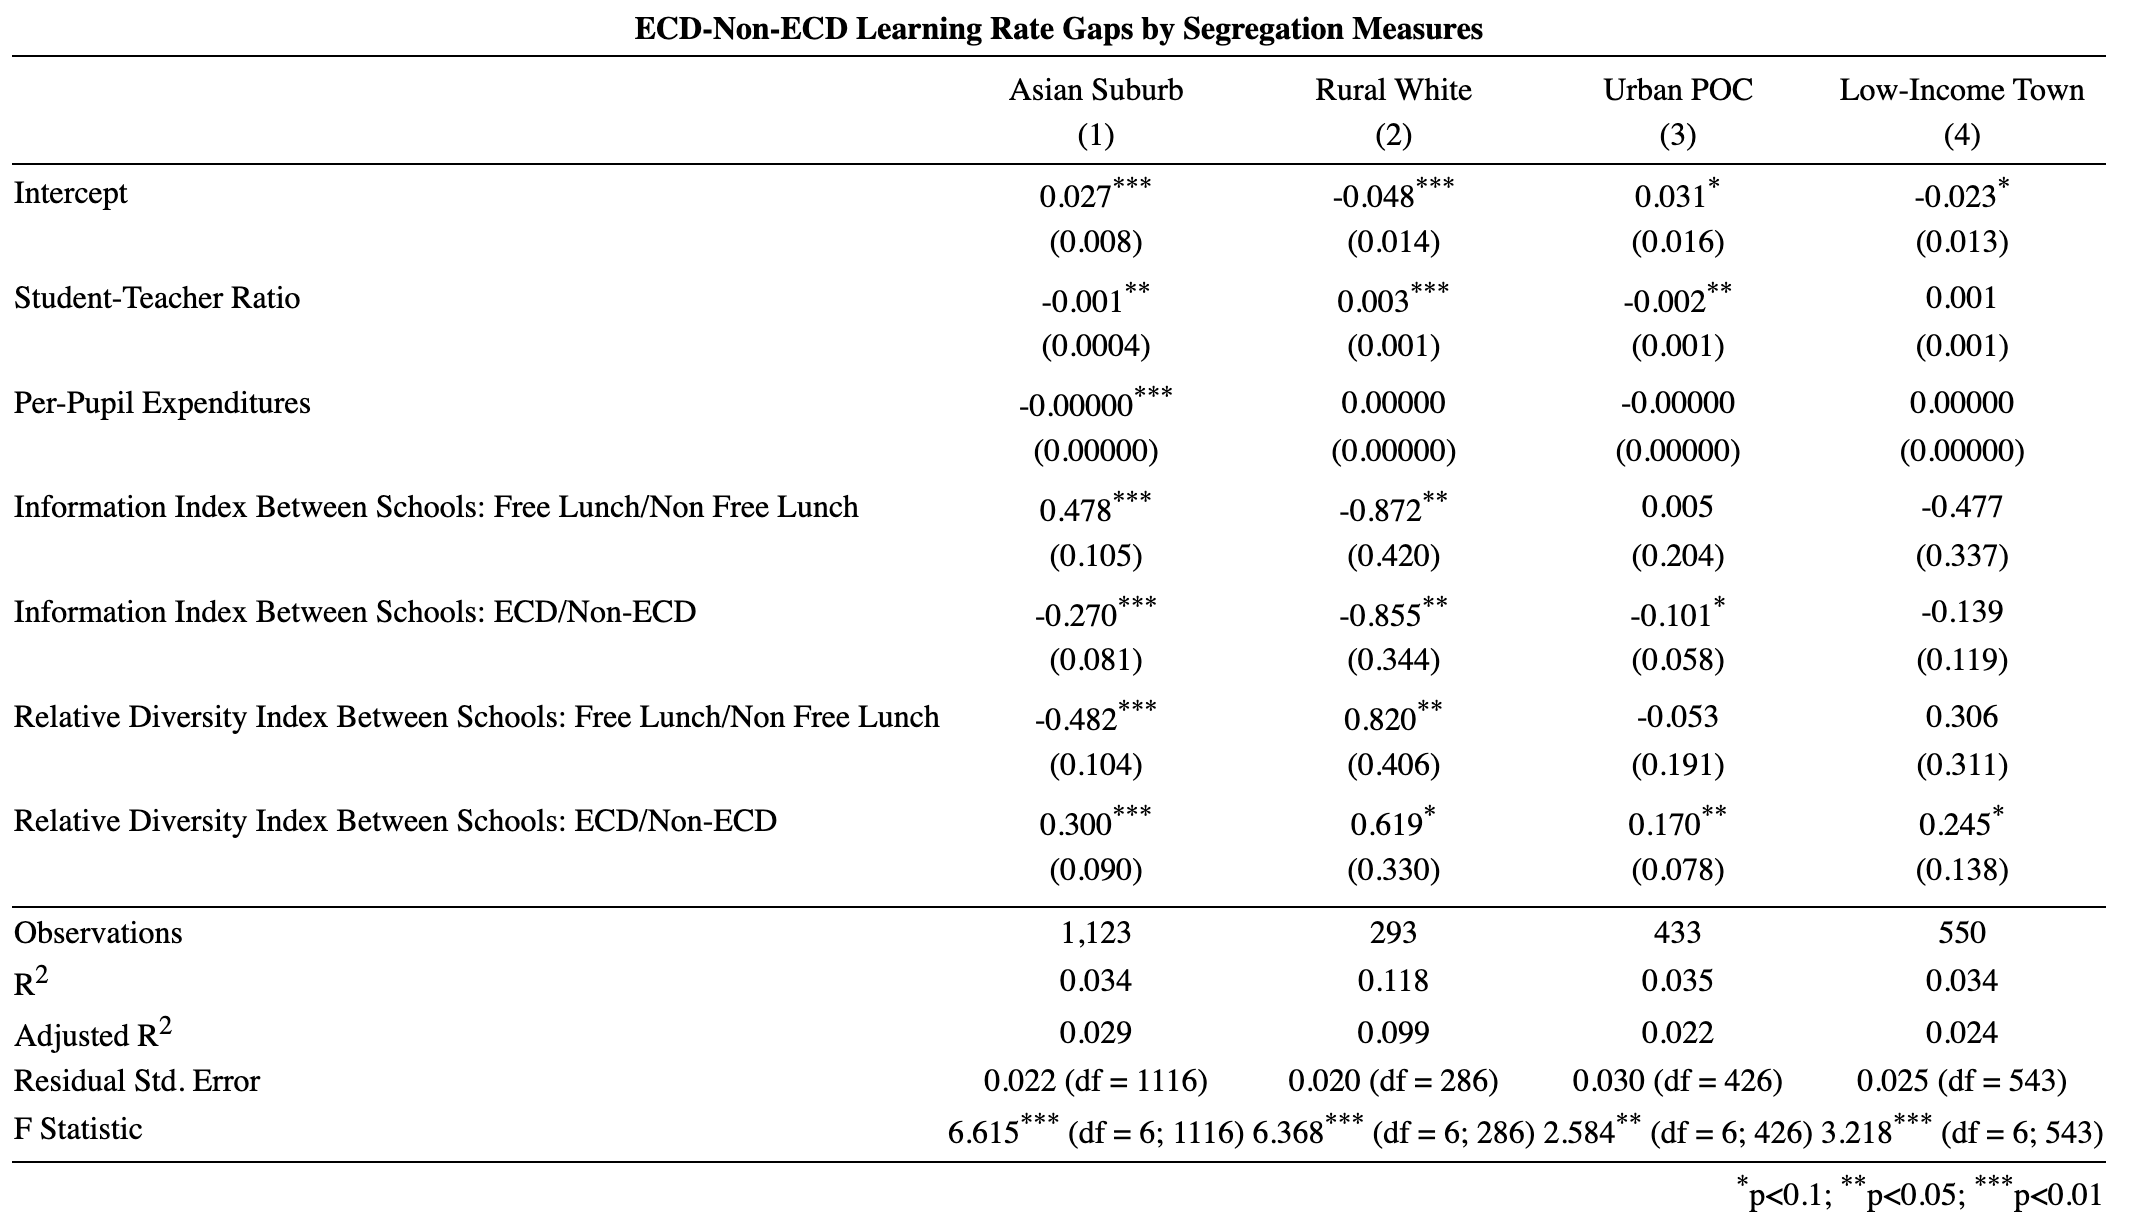
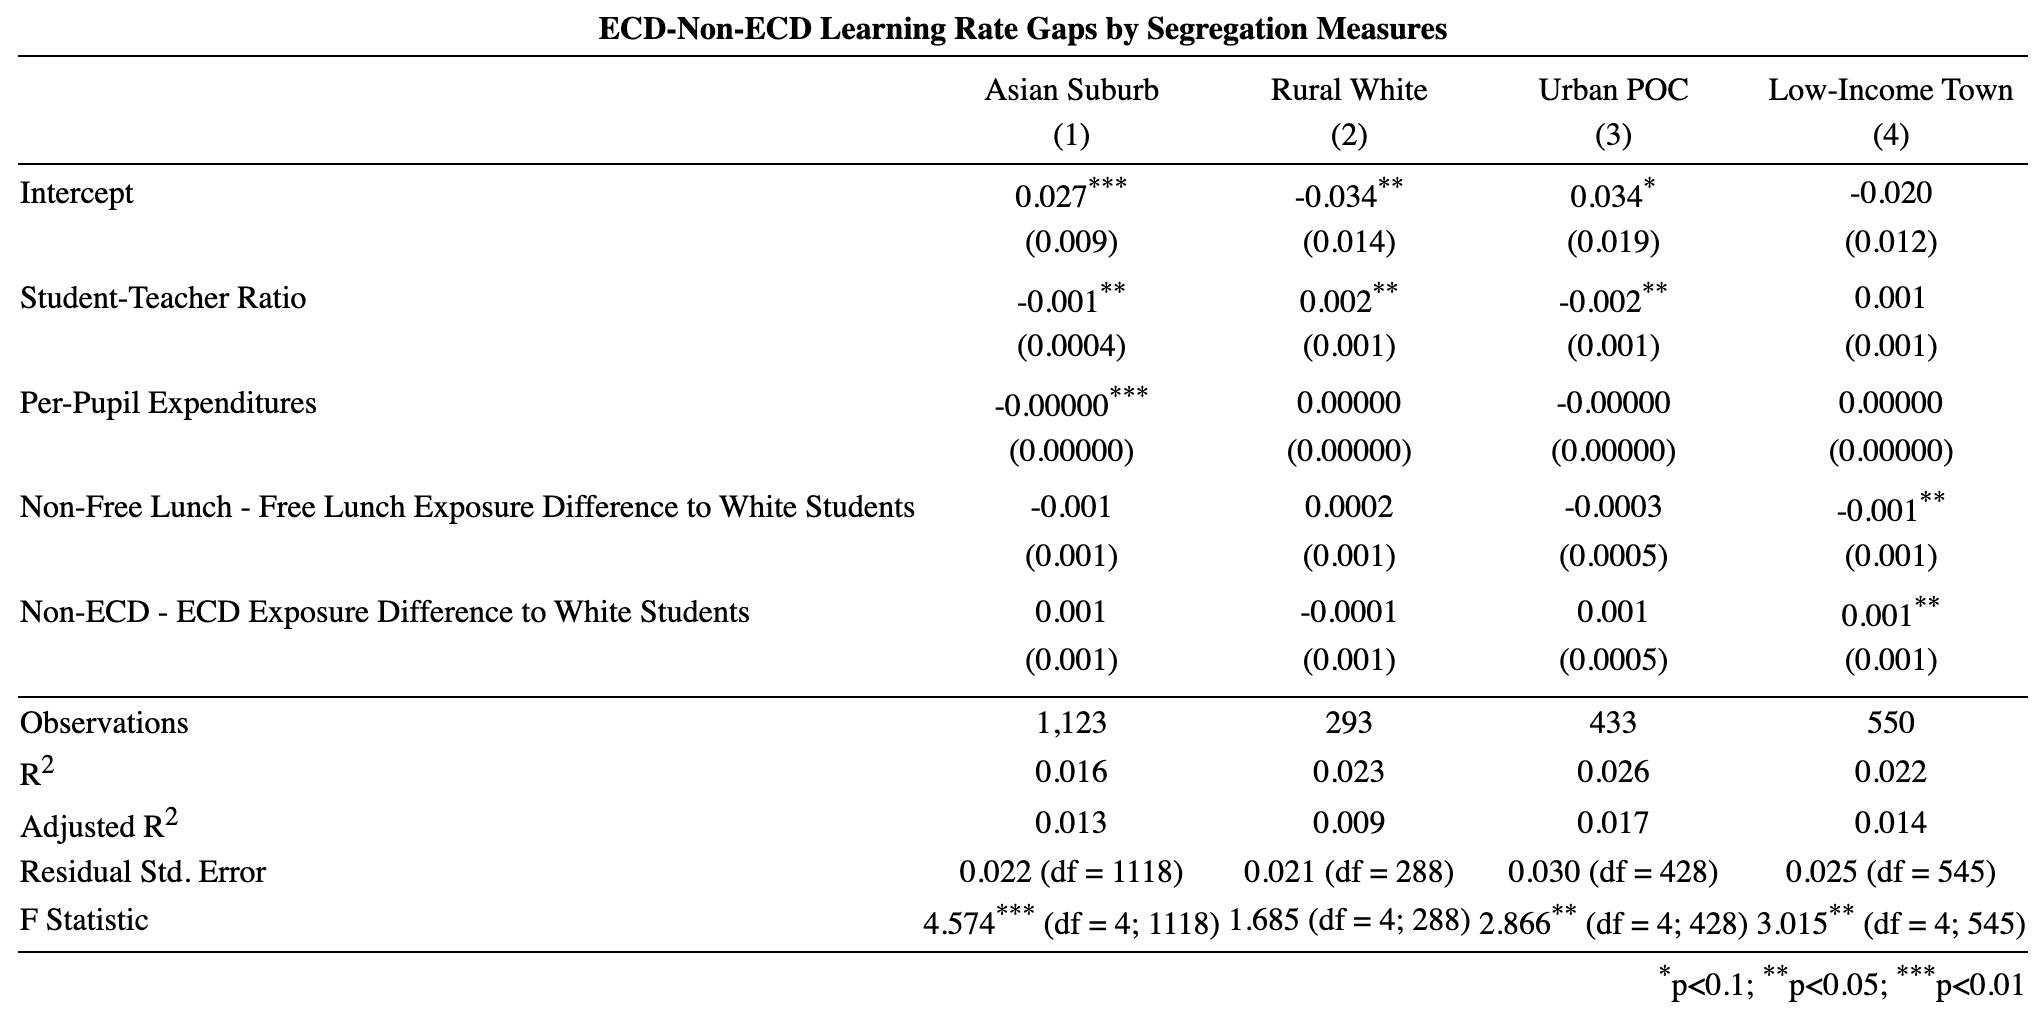
updated regression tables
Updated tables with updated segregation coefficients

diff --git a/data/whg_regressiontable.html b/data/whg_regressiontable.html
@@ -3,31 +3,28 @@
 <tr><td colspan="5" style="border-bottom: 1px solid black"></td></tr><tr><td style="text-align:left"></td><td colspan="4"></td></tr>
 <tr><td style="text-align:left"></td><td>Asian Suburb</td><td>Rural White</td><td>Urban POC</td><td>Low-Income Town</td></tr>
 <tr><td style="text-align:left"></td><td>(1)</td><td>(2)</td><td>(3)</td><td>(4)</td></tr>
-<tr><td colspan="5" style="border-bottom: 1px solid black"></td></tr><tr><td style="text-align:left">Intercept</td><td>0.028<sup>***</sup></td><td>-0.072<sup>***</sup></td><td>0.027<sup>*</sup></td><td>-0.019</td></tr>
-<tr><td style="text-align:left"></td><td>(0.010)</td><td>(0.019)</td><td>(0.015)</td><td>(0.014)</td></tr>
+<tr><td colspan="5" style="border-bottom: 1px solid black"></td></tr><tr><td style="text-align:left">Intercept</td><td>0.028<sup>***</sup></td><td>-0.070<sup>***</sup></td><td>0.027</td><td>-0.019</td></tr>
+<tr><td style="text-align:left"></td><td>(0.010)</td><td>(0.019)</td><td>(0.018)</td><td>(0.015)</td></tr>
 <tr><td style="text-align:left"></td><td></td><td></td><td></td><td></td></tr>
-<tr><td style="text-align:left">Student-Teacher Ratio</td><td>-0.002<sup>***</sup></td><td>0.003<sup>**</sup></td><td>-0.002<sup>***</sup></td><td>0.0004</td></tr>
+<tr><td style="text-align:left">Student-Teacher Ratio</td><td>-0.002<sup>***</sup></td><td>0.003<sup>***</sup></td><td>-0.002<sup>***</sup></td><td>0.0003</td></tr>
 <tr><td style="text-align:left"></td><td>(0.0004)</td><td>(0.001)</td><td>(0.001)</td><td>(0.001)</td></tr>
 <tr><td style="text-align:left"></td><td></td><td></td><td></td><td></td></tr>
-<tr><td style="text-align:left">Per-Pupil Expenditures</td><td>-0.00000<sup>*</sup></td><td>0.00000<sup>*</sup></td><td>-0.00000</td><td>0.00000</td></tr>
+<tr><td style="text-align:left">Per-Pupil Expenditures</td><td>-0.00000<sup>*</sup></td><td>0.00000</td><td>-0.00000</td><td>0.00000</td></tr>
 <tr><td style="text-align:left"></td><td>(0.00000)</td><td>(0.00000)</td><td>(0.00000)</td><td>(0.00000)</td></tr>
 <tr><td style="text-align:left"></td><td></td><td></td><td></td><td></td></tr>
-<tr><td style="text-align:left">Hispanic-White Difference in Exposure to ECD Students</td><td>0.067</td><td>0.082</td><td>0.023</td><td>0.091</td></tr>
-<tr><td style="text-align:left"></td><td>(0.043)</td><td>(0.082)</td><td>(0.033)</td><td>(0.063)</td></tr>
+<tr><td style="text-align:left">Hispanic-White Difference in Exposure to ECD Students</td><td>0.001</td><td>0.001</td><td>0.0002</td><td>0.001</td></tr>
+<tr><td style="text-align:left"></td><td>(0.0005)</td><td>(0.001)</td><td>(0.0003)</td><td>(0.001)</td></tr>
 <tr><td style="text-align:left"></td><td></td><td></td><td></td><td></td></tr>
-<tr><td style="text-align:left">Hispanic-White Difference in Exposure to Minority Students</td><td>-0.051</td><td>-0.034</td><td>0.046</td><td>0.021</td></tr>
-<tr><td style="text-align:left"></td><td>(0.054)</td><td>(0.069)</td><td>(0.047)</td><td>(0.064)</td></tr>
+<tr><td style="text-align:left">Hispanic-White Difference in Exposure to Minority Students</td><td>-0.0005</td><td>-0.0002</td><td>0.0005</td><td>0.0001</td></tr>
+<tr><td style="text-align:left"></td><td>(0.001)</td><td>(0.001)</td><td>(0.001)</td><td>(0.001)</td></tr>
 <tr><td style="text-align:left"></td><td></td><td></td><td></td><td></td></tr>
-<tr><td style="text-align:left">Relative Diversity Index Between Schools: White/Hispanic</td><td>-0.012</td><td>-0.041</td><td>0.008</td><td>-0.082</td></tr>
-<tr><td style="text-align:left"></td><td>(0.056)</td><td>(0.073)</td><td>(0.057)</td><td>(0.062)</td></tr>
-<tr><td style="text-align:left"></td><td></td><td></td><td></td><td></td></tr>
-<tr><td style="text-align:left">Information Index Between Schools: White/Hispanic</td><td>0.011</td><td>0.046</td><td>-0.004</td><td>-0.021</td></tr>
-<tr><td style="text-align:left"></td><td>(0.058)</td><td>(0.072)</td><td>(0.059)</td><td>(0.060)</td></tr>
+<tr><td style="text-align:left">White - Hispanic Exposure Difference to White Students</td><td>-0.0001</td><td>-0.0001</td><td>0.00005</td><td>-0.001</td></tr>
+<tr><td style="text-align:left"></td><td>(0.001)</td><td>(0.001)</td><td>(0.001)</td><td>(0.001)</td></tr>
 <tr><td style="text-align:left"></td><td></td><td></td><td></td><td></td></tr>
 <tr><td colspan="5" style="border-bottom: 1px solid black"></td></tr><tr><td style="text-align:left">Observations</td><td>1,123</td><td>293</td><td>433</td><td>550</td></tr>
-<tr><td style="text-align:left">R<sup>2</sup></td><td>0.022</td><td>0.030</td><td>0.068</td><td>0.010</td></tr>
-<tr><td style="text-align:left">Adjusted R<sup>2</sup></td><td>0.017</td><td>0.010</td><td>0.055</td><td>-0.001</td></tr>
-<tr><td style="text-align:left">Residual Std. Error</td><td>0.026 (df = 1116)</td><td>0.027 (df = 286)</td><td>0.029 (df = 426)</td><td>0.027 (df = 543)</td></tr>
-<tr><td style="text-align:left">F Statistic</td><td>4.197<sup>***</sup> (df = 6; 1116)</td><td>1.467 (df = 6; 286)</td><td>5.191<sup>***</sup> (df = 6; 426)</td><td>0.920 (df = 6; 543)</td></tr>
+<tr><td style="text-align:left">R<sup>2</sup></td><td>0.022</td><td>0.028</td><td>0.068</td><td>0.010</td></tr>
+<tr><td style="text-align:left">Adjusted R<sup>2</sup></td><td>0.018</td><td>0.012</td><td>0.057</td><td>0.001</td></tr>
+<tr><td style="text-align:left">Residual Std. Error</td><td>0.026 (df = 1117)</td><td>0.027 (df = 287)</td><td>0.029 (df = 427)</td><td>0.027 (df = 544)</td></tr>
+<tr><td style="text-align:left">F Statistic</td><td>5.034<sup>***</sup> (df = 5; 1117)</td><td>1.683 (df = 5; 287)</td><td>6.243<sup>***</sup> (df = 5; 427)</td><td>1.082 (df = 5; 544)</td></tr>
 <tr><td colspan="5" style="border-bottom: 1px solid black"></td></tr><tr><td colspan="5" style="text-align:right"><sup>*</sup>p<0.1; <sup>**</sup>p<0.05; <sup>***</sup>p<0.01</td></tr>
 </table>

diff --git a/data/neg_regressiontable.html b/data/neg_regressiontable.html
@@ -3,31 +3,25 @@
 <tr><td colspan="5" style="border-bottom: 1px solid black"></td></tr><tr><td style="text-align:left"></td><td colspan="4"></td></tr>
 <tr><td style="text-align:left"></td><td>Asian Suburb</td><td>Rural White</td><td>Urban POC</td><td>Low-Income Town</td></tr>
 <tr><td style="text-align:left"></td><td>(1)</td><td>(2)</td><td>(3)</td><td>(4)</td></tr>
-<tr><td colspan="5" style="border-bottom: 1px solid black"></td></tr><tr><td style="text-align:left">Intercept</td><td>0.027<sup>***</sup></td><td>-0.048<sup>***</sup></td><td>0.031<sup>*</sup></td><td>-0.023<sup>*</sup></td></tr>
-<tr><td style="text-align:left"></td><td>(0.008)</td><td>(0.014)</td><td>(0.016)</td><td>(0.013)</td></tr>
+<tr><td colspan="5" style="border-bottom: 1px solid black"></td></tr><tr><td style="text-align:left">Intercept</td><td>0.027<sup>***</sup></td><td>-0.034<sup>**</sup></td><td>0.034<sup>*</sup></td><td>-0.020</td></tr>
+<tr><td style="text-align:left"></td><td>(0.009)</td><td>(0.014)</td><td>(0.019)</td><td>(0.012)</td></tr>
 <tr><td style="text-align:left"></td><td></td><td></td><td></td><td></td></tr>
-<tr><td style="text-align:left">Student-Teacher Ratio</td><td>-0.001<sup>**</sup></td><td>0.003<sup>***</sup></td><td>-0.002<sup>**</sup></td><td>0.001</td></tr>
+<tr><td style="text-align:left">Student-Teacher Ratio</td><td>-0.001<sup>**</sup></td><td>0.002<sup>**</sup></td><td>-0.002<sup>**</sup></td><td>0.001</td></tr>
 <tr><td style="text-align:left"></td><td>(0.0004)</td><td>(0.001)</td><td>(0.001)</td><td>(0.001)</td></tr>
 <tr><td style="text-align:left"></td><td></td><td></td><td></td><td></td></tr>
 <tr><td style="text-align:left">Per-Pupil Expenditures</td><td>-0.00000<sup>***</sup></td><td>0.00000</td><td>-0.00000</td><td>0.00000</td></tr>
 <tr><td style="text-align:left"></td><td>(0.00000)</td><td>(0.00000)</td><td>(0.00000)</td><td>(0.00000)</td></tr>
 <tr><td style="text-align:left"></td><td></td><td></td><td></td><td></td></tr>
-<tr><td style="text-align:left">Information Index Between Schools: Free Lunch/Non Free Lunch</td><td>0.478<sup>***</sup></td><td>-0.872<sup>**</sup></td><td>0.005</td><td>-0.477</td></tr>
-<tr><td style="text-align:left"></td><td>(0.105)</td><td>(0.420)</td><td>(0.204)</td><td>(0.337)</td></tr>
+<tr><td style="text-align:left">Non-Free Lunch - Free Lunch Exposure Difference to White Students</td><td>-0.001</td><td>0.0002</td><td>-0.0003</td><td>-0.001<sup>**</sup></td></tr>
+<tr><td style="text-align:left"></td><td>(0.001)</td><td>(0.001)</td><td>(0.0005)</td><td>(0.001)</td></tr>
 <tr><td style="text-align:left"></td><td></td><td></td><td></td><td></td></tr>
-<tr><td style="text-align:left">Information Index Between Schools: ECD/Non-ECD</td><td>-0.270<sup>***</sup></td><td>-0.855<sup>**</sup></td><td>-0.101<sup>*</sup></td><td>-0.139</td></tr>
-<tr><td style="text-align:left"></td><td>(0.081)</td><td>(0.344)</td><td>(0.058)</td><td>(0.119)</td></tr>
-<tr><td style="text-align:left"></td><td></td><td></td><td></td><td></td></tr>
-<tr><td style="text-align:left">Relative Diversity Index Between Schools: Free Lunch/Non Free Lunch</td><td>-0.482<sup>***</sup></td><td>0.820<sup>**</sup></td><td>-0.053</td><td>0.306</td></tr>
-<tr><td style="text-align:left"></td><td>(0.104)</td><td>(0.406)</td><td>(0.191)</td><td>(0.311)</td></tr>
-<tr><td style="text-align:left"></td><td></td><td></td><td></td><td></td></tr>
-<tr><td style="text-align:left">Relative Diversity Index Between Schools: ECD/Non-ECD</td><td>0.300<sup>***</sup></td><td>0.619<sup>*</sup></td><td>0.170<sup>**</sup></td><td>0.245<sup>*</sup></td></tr>
-<tr><td style="text-align:left"></td><td>(0.090)</td><td>(0.330)</td><td>(0.078)</td><td>(0.138)</td></tr>
+<tr><td style="text-align:left">Non-ECD - ECD Exposure Difference to White Students</td><td>0.001</td><td>-0.0001</td><td>0.001</td><td>0.001<sup>**</sup></td></tr>
+<tr><td style="text-align:left"></td><td>(0.001)</td><td>(0.001)</td><td>(0.0005)</td><td>(0.001)</td></tr>
 <tr><td style="text-align:left"></td><td></td><td></td><td></td><td></td></tr>
 <tr><td colspan="5" style="border-bottom: 1px solid black"></td></tr><tr><td style="text-align:left">Observations</td><td>1,123</td><td>293</td><td>433</td><td>550</td></tr>
-<tr><td style="text-align:left">R<sup>2</sup></td><td>0.034</td><td>0.118</td><td>0.035</td><td>0.034</td></tr>
-<tr><td style="text-align:left">Adjusted R<sup>2</sup></td><td>0.029</td><td>0.099</td><td>0.022</td><td>0.024</td></tr>
-<tr><td style="text-align:left">Residual Std. Error</td><td>0.022 (df = 1116)</td><td>0.020 (df = 286)</td><td>0.030 (df = 426)</td><td>0.025 (df = 543)</td></tr>
-<tr><td style="text-align:left">F Statistic</td><td>6.615<sup>***</sup> (df = 6; 1116)</td><td>6.368<sup>***</sup> (df = 6; 286)</td><td>2.584<sup>**</sup> (df = 6; 426)</td><td>3.218<sup>***</sup> (df = 6; 543)</td></tr>
+<tr><td style="text-align:left">R<sup>2</sup></td><td>0.016</td><td>0.023</td><td>0.026</td><td>0.022</td></tr>
+<tr><td style="text-align:left">Adjusted R<sup>2</sup></td><td>0.013</td><td>0.009</td><td>0.017</td><td>0.014</td></tr>
+<tr><td style="text-align:left">Residual Std. Error</td><td>0.022 (df = 1118)</td><td>0.021 (df = 288)</td><td>0.030 (df = 428)</td><td>0.025 (df = 545)</td></tr>
+<tr><td style="text-align:left">F Statistic</td><td>4.574<sup>***</sup> (df = 4; 1118)</td><td>1.685 (df = 4; 288)</td><td>2.866<sup>**</sup> (df = 4; 428)</td><td>3.015<sup>**</sup> (df = 4; 545)</td></tr>
 <tr><td colspan="5" style="border-bottom: 1px solid black"></td></tr><tr><td colspan="5" style="text-align:right"><sup>*</sup>p<0.1; <sup>**</sup>p<0.05; <sup>***</sup>p<0.01</td></tr>
 </table>

diff --git a/data/wbg_regressiontable.html b/data/wbg_regressiontable.html
@@ -3,31 +3,28 @@
 <tr><td colspan="5" style="border-bottom: 1px solid black"></td></tr><tr><td style="text-align:left"></td><td colspan="4"></td></tr>
 <tr><td style="text-align:left"></td><td>Asian Suburb</td><td>Rural White</td><td>Urban POC</td><td>Low-Income Town</td></tr>
 <tr><td style="text-align:left"></td><td>(1)</td><td>(2)</td><td>(3)</td><td>(4)</td></tr>
-<tr><td colspan="5" style="border-bottom: 1px solid black"></td></tr><tr><td style="text-align:left">Intercept</td><td>0.016</td><td>-0.022</td><td>0.022</td><td>0.010</td></tr>
-<tr><td style="text-align:left"></td><td>(0.010)</td><td>(0.018)</td><td>(0.014)</td><td>(0.015)</td></tr>
+<tr><td colspan="5" style="border-bottom: 1px solid black"></td></tr><tr><td style="text-align:left">Intercept</td><td>0.017<sup>*</sup></td><td>-0.018</td><td>0.020</td><td>0.010</td></tr>
+<tr><td style="text-align:left"></td><td>(0.010)</td><td>(0.018)</td><td>(0.014)</td><td>(0.017)</td></tr>
 <tr><td style="text-align:left"></td><td></td><td></td><td></td><td></td></tr>
 <tr><td style="text-align:left">Student-Teacher Ratio</td><td>-0.001<sup>**</sup></td><td>0.001</td><td>-0.001</td><td>-0.001</td></tr>
-<tr><td style="text-align:left"></td><td>(0.0005)</td><td>(0.001)</td><td>(0.001)</td><td>(0.001)</td></tr>
+<tr><td style="text-align:left"></td><td>(0.0004)</td><td>(0.001)</td><td>(0.001)</td><td>(0.001)</td></tr>
 <tr><td style="text-align:left"></td><td></td><td></td><td></td><td></td></tr>
 <tr><td style="text-align:left">Per-Pupil Expenditures</td><td>-0.00000</td><td>0.00000</td><td>-0.00000</td><td>0.00000</td></tr>
 <tr><td style="text-align:left"></td><td>(0.00000)</td><td>(0.00000)</td><td>(0.00000)</td><td>(0.00000)</td></tr>
 <tr><td style="text-align:left"></td><td></td><td></td><td></td><td></td></tr>
-<tr><td style="text-align:left">Black-White Difference in Exposure to ECD Students</td><td>0.030</td><td>0.062</td><td>0.064<sup>***</sup></td><td>0.098<sup>*</sup></td></tr>
-<tr><td style="text-align:left"></td><td>(0.034)</td><td>(0.065)</td><td>(0.022)</td><td>(0.055)</td></tr>
+<tr><td style="text-align:left">Black-White Difference in Exposure to ECD Students</td><td>0.0003</td><td>0.001</td><td>0.001<sup>***</sup></td><td>0.001<sup>**</sup></td></tr>
+<tr><td style="text-align:left"></td><td>(0.0003)</td><td>(0.001)</td><td>(0.0002)</td><td>(0.0005)</td></tr>
 <tr><td style="text-align:left"></td><td></td><td></td><td></td><td></td></tr>
-<tr><td style="text-align:left">Black-White Difference in Exposure to Minority Students</td><td>-0.012</td><td>0.110</td><td>0.061<sup>*</sup></td><td>0.089</td></tr>
-<tr><td style="text-align:left"></td><td>(0.044)</td><td>(0.121)</td><td>(0.032)</td><td>(0.089)</td></tr>
+<tr><td style="text-align:left">Black-White Difference in Exposure to Minority Students</td><td>-0.0001</td><td>0.002</td><td>0.001</td><td>0.001</td></tr>
+<tr><td style="text-align:left"></td><td>(0.0004)</td><td>(0.001)</td><td>(0.0004)</td><td>(0.001)</td></tr>
 <tr><td style="text-align:left"></td><td></td><td></td><td></td><td></td></tr>
-<tr><td style="text-align:left">Relative Diversity Index Between Schools: White/Black</td><td>-0.063</td><td>-0.183<sup>*</sup></td><td>-0.109<sup>***</sup></td><td>-0.125</td></tr>
-<tr><td style="text-align:left"></td><td>(0.042)</td><td>(0.098)</td><td>(0.042)</td><td>(0.080)</td></tr>
-<tr><td style="text-align:left"></td><td></td><td></td><td></td><td></td></tr>
-<tr><td style="text-align:left">Information Index Between Schools: White/Black</td><td>0.065</td><td>0.090</td><td>0.045</td><td>0.011</td></tr>
-<tr><td style="text-align:left"></td><td>(0.042)</td><td>(0.057)</td><td>(0.042)</td><td>(0.057)</td></tr>
+<tr><td style="text-align:left">White - Black Exposure Difference to White Students</td><td>-0.0001</td><td>-0.002<sup>*</sup></td><td>-0.001<sup>**</sup></td><td>-0.001<sup>*</sup></td></tr>
+<tr><td style="text-align:left"></td><td>(0.0003)</td><td>(0.001)</td><td>(0.0003)</td><td>(0.001)</td></tr>
 <tr><td style="text-align:left"></td><td></td><td></td><td></td><td></td></tr>
 <tr><td colspan="5" style="border-bottom: 1px solid black"></td></tr><tr><td style="text-align:left">Observations</td><td>1,123</td><td>293</td><td>433</td><td>550</td></tr>
-<tr><td style="text-align:left">R<sup>2</sup></td><td>0.010</td><td>0.036</td><td>0.063</td><td>0.019</td></tr>
-<tr><td style="text-align:left">Adjusted R<sup>2</sup></td><td>0.004</td><td>0.016</td><td>0.049</td><td>0.008</td></tr>
-<tr><td style="text-align:left">Residual Std. Error</td><td>0.027 (df = 1116)</td><td>0.026 (df = 286)</td><td>0.026 (df = 426)</td><td>0.028 (df = 543)</td></tr>
-<tr><td style="text-align:left">F Statistic</td><td>1.809<sup>*</sup> (df = 6; 1116)</td><td>1.770 (df = 6; 286)</td><td>4.740<sup>***</sup> (df = 6; 426)</td><td>1.735 (df = 6; 543)</td></tr>
+<tr><td style="text-align:left">R<sup>2</sup></td><td>0.008</td><td>0.027</td><td>0.060</td><td>0.019</td></tr>
+<tr><td style="text-align:left">Adjusted R<sup>2</sup></td><td>0.003</td><td>0.010</td><td>0.049</td><td>0.010</td></tr>
+<tr><td style="text-align:left">Residual Std. Error</td><td>0.027 (df = 1117)</td><td>0.026 (df = 287)</td><td>0.026 (df = 427)</td><td>0.028 (df = 544)</td></tr>
+<tr><td style="text-align:left">F Statistic</td><td>1.697 (df = 5; 1117)</td><td>1.616 (df = 5; 287)</td><td>5.453<sup>***</sup> (df = 5; 427)</td><td>2.079<sup>*</sup> (df = 5; 544)</td></tr>
 <tr><td colspan="5" style="border-bottom: 1px solid black"></td></tr><tr><td colspan="5" style="text-align:right"><sup>*</sup>p<0.1; <sup>**</sup>p<0.05; <sup>***</sup>p<0.01</td></tr>
 </table>
